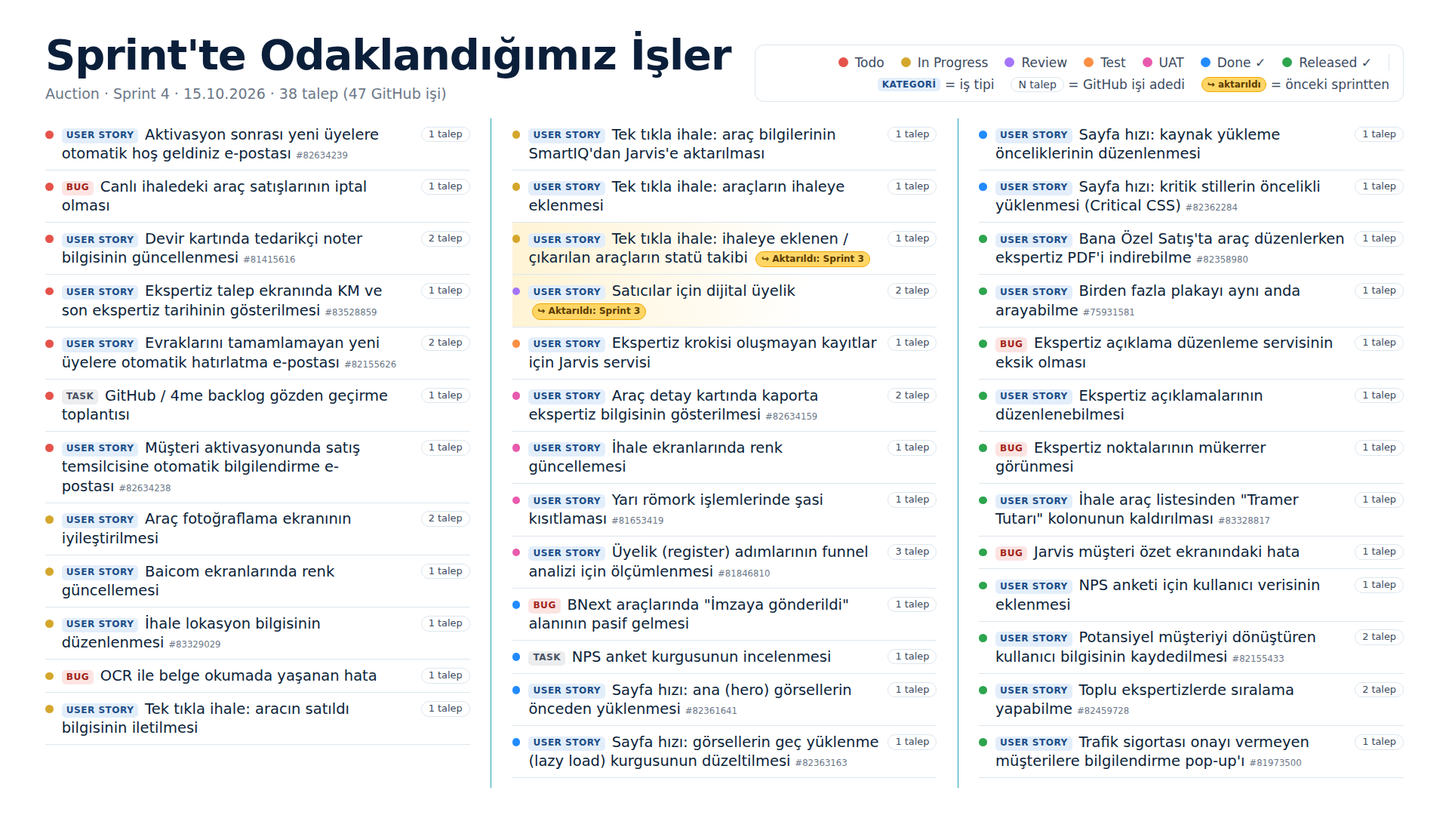
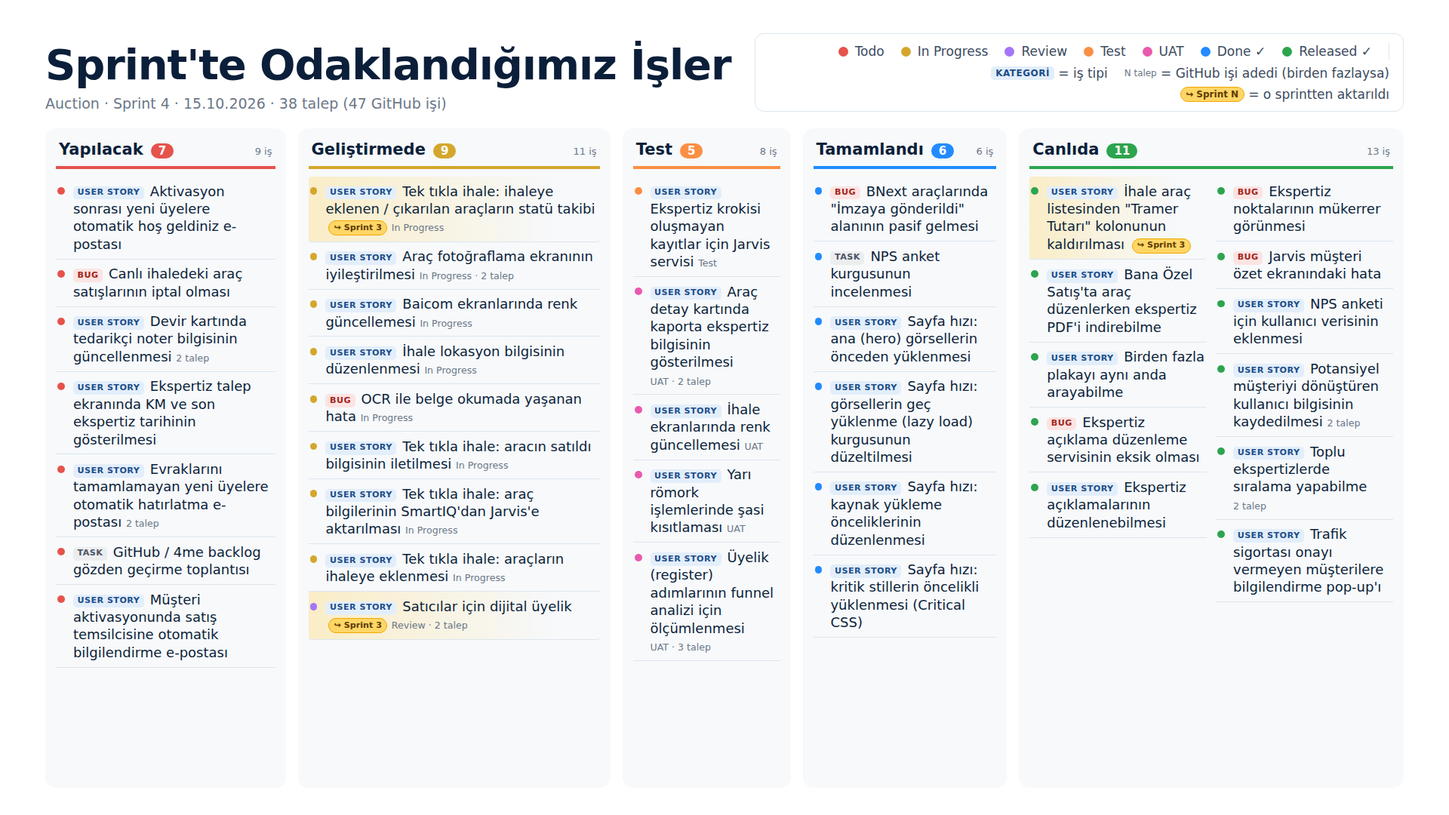
Slide 1 as a kanban board with bullet items; v4 export (Original Sprint for #461)
- five lanes (Yapılacak, Geliştirmede, Test, Tamamlandı, Canlıda), widths proportional to item count,
  crowded lanes split into sub-columns, font auto-fit
- items stay as bullets: status dot, category tag, theme name, '↪ Sprint N' carry tag, 'N talep' when >1

Claude-Session: https://claude.ai/code/session_014SYUQQBmb2NC56QaszpaqB

diff --git a/sunum/auction-2026-10-15/auction-slaytlar.html b/sunum/auction-2026-10-15/auction-slaytlar.html
@@ -129,6 +129,23 @@ h1 span { color:var(--accent); font-weight:600; }
 .rtitle small { font-weight:400; color:var(--muted); font-size:16px; }
 .rsec.done .rtitle { border-color:var(--plan); color:var(--ink-2); }
 .rsec.done .rtitle b { background:var(--plan); color:var(--ink); }
+/* kanban */
+.board { flex:1; min-height:0; display:grid; gap:16px; --kf:17px; }
+.lane { display:flex; flex-direction:column; min-height:0; background:#F7F9FB; border-radius:14px; padding:12px 14px; }
+.lhead { display:flex; align-items:baseline; gap:10px; padding:4px 4px 10px; margin-bottom:10px;
+  border-bottom:4px solid var(--c); font-size:21px; font-weight:700; }
+.lhead b { font-size:15px; background:var(--c); color:#fff; border-radius:999px; padding:1px 10px; }
+.lhead small { margin-left:auto; font-size:13px; font-weight:500; color:var(--muted); white-space:nowrap; }
+.cards { flex:1; min-height:0; overflow:hidden; column-width:230px; column-gap:12px; column-fill:balance; }
+.cards > * { break-inside:avoid; }
+.kitem { display:flex; align-items:flex-start; gap:2px; padding:calc(var(--kf) * .42) 2px;
+  border-bottom:1px solid var(--rule); font-size:var(--kf); line-height:1.3; font-weight:500; }
+.kitem .dot { width:calc(var(--kf) * .55); height:calc(var(--kf) * .55); margin-top:calc(var(--kf) * .38); }
+.kitem .kt { flex:1; }
+.kitem .cat, .kitem .carry { font-size:.62em; vertical-align:.12em; }
+.kitem.carried { background:linear-gradient(90deg, rgba(255,214,102,.35), transparent 85%); border-radius:4px; }
+.kmeta { font-size:.7em; color:var(--muted); white-space:nowrap; }
+.lempty { color:var(--muted); text-align:center; padding:20px 0; }
 .rnote { font-size:16px; color:var(--muted); margin-top:14px; }
 @media print {
   @page { size:1920px 1080px; margin:0; }
@@ -143,57 +160,18 @@ h1 span { color:var(--accent); font-weight:600; }
   <header>
     <div><h1>Sprint'te Odaklandığımız İşler</h1>
       <div class="sub">Auction · Sprint 4 · 15.10.2026 · 38 talep (47 GitHub işi)</div></div>
-    <ul class="legend"><li><span class="dot" style="--c:#E5534B"></span>Todo</li><li><span class="dot" style="--c:#D4A72C"></span>In Progress</li><li><span class="dot" style="--c:#A475F9"></span>Review</li><li><span class="dot" style="--c:#FB8F44"></span>Test</li><li><span class="dot" style="--c:#E85AAD"></span>UAT</li><li><span class="dot" style="--c:#218BFF"></span>Done ✓</li><li><span class="dot" style="--c:#2DA44E"></span>Released ✓</li><li class="sep"></li><li><span class="cat story">Kategori</span>&nbsp;= iş tipi</li><li><span class="cnt">N talep</span>&nbsp;= GitHub işi adedi</li><li><span class="carry">↪ aktarıldı</span>&nbsp;= önceki sprintten</li></ul>
+    <ul class="legend"><li><span class="dot" style="--c:#E5534B"></span>Todo</li><li><span class="dot" style="--c:#D4A72C"></span>In Progress</li><li><span class="dot" style="--c:#A475F9"></span>Review</li><li><span class="dot" style="--c:#FB8F44"></span>Test</li><li><span class="dot" style="--c:#E85AAD"></span>UAT</li><li><span class="dot" style="--c:#218BFF"></span>Done ✓</li><li><span class="dot" style="--c:#2DA44E"></span>Released ✓</li><li class="sep"></li><li><span class="cat story">Kategori</span>&nbsp;= iş tipi</li><li><span class="kmeta">N talep</span>&nbsp;= GitHub işi adedi (birden fazlaysa)</li><li><span class="carry">↪ Sprint N</span>&nbsp;= o sprintten aktarıldı</li></ul>
   </header>
-  <ul class="list" style="--cols:3">
-<li class="" title="Todo · Yeni Üyelik | Müşteri Aktivasyonu Sonrası Otomatik Hoş Geldiniz Maili Gönderimi"><span class="dot" style="--c:#E5534B"></span><span class="t"><span class="cat story">User Story</span> Aktivasyon sonrası yeni üyelere otomatik hoş geldiniz e-postası<span class="xno">#82634239</span></span><span class="cnt">1 talep</span></li>
-<li class="" title="Todo · [BUG] Canlı İhaledeki Araçların Satışlarının İptal Olması Hk."><span class="dot" style="--c:#E5534B"></span><span class="t"><span class="cat bug">Bug</span> Canlı ihaledeki araç satışlarının iptal olması</span><span class="cnt">1 talep</span></li>
-<li class="" title="Todo · Devir Kartı Ekranında Tedarikçi Noter Alanının Güncellenmesi FE
-Test · Devir Kartı Ekranında Tedarikçi Noter Alanının Güncellenmesi BE"><span class="dot" style="--c:#E5534B"></span><span class="t"><span class="cat story">User Story</span> Devir kartında tedarikçi noter bilgisinin güncellenmesi<span class="xno">#81415616</span></span><span class="cnt">2 talep</span></li>
-<li class="" title="Todo · Ekspertiz Talep Ekranına KM ve Son Ekspertiz Tarihi Bilgilerinin Eklenmesi"><span class="dot" style="--c:#E5534B"></span><span class="t"><span class="cat story">User Story</span> Ekspertiz talep ekranında KM ve son ekspertiz tarihinin gösterilmesi<span class="xno">#83528859</span></span><span class="cnt">1 talep</span></li>
-<li class="" title="Todo · Yeni Üyelik | Evraklarını Tamamlamayan Müşterilere Otomatik Hatırlatma Maili FE
-Test · Yeni Üyelik | Evraklarını Tamamlamayan Müşterilere Otomatik Hatırlatma Maili BE"><span class="dot" style="--c:#E5534B"></span><span class="t"><span class="cat story">User Story</span> Evraklarını tamamlamayan yeni üyelere otomatik hatırlatma e-postası<span class="xno">#82155626</span></span><span class="cnt">2 talep</span></li>
-<li class="" title="Todo · Github/4me Backlog için toplantı yapılacaktır"><span class="dot" style="--c:#E5534B"></span><span class="t"><span class="cat task">Task</span> GitHub / 4me backlog gözden geçirme toplantısı</span><span class="cnt">1 talep</span></li>
-<li class="" title="Todo · Yeni Üyelik | Müşteri Aktivasyonu Sonrası Satış Temsilcisine Otomatik Mail Gönderimi"><span class="dot" style="--c:#E5534B"></span><span class="t"><span class="cat story">User Story</span> Müşteri aktivasyonunda satış temsilcisine otomatik bilgilendirme e-postası<span class="xno">#82634238</span></span><span class="cnt">1 talep</span></li>
-<li class="" title="In Progress · Araç Fotoğraflama Ekran Düzenlemeleri FE
-Done · Araç Fotoğraflama Ekran Düzenlemeleri BE"><span class="dot" style="--c:#D4A72C"></span><span class="t"><span class="cat story">User Story</span> Araç fotoğraflama ekranının iyileştirilmesi</span><span class="cnt">2 talep</span></li>
-<li class="" title="In Progress · Baicom renk değişimi"><span class="dot" style="--c:#D4A72C"></span><span class="t"><span class="cat story">User Story</span> Baicom ekranlarında renk güncellemesi</span><span class="cnt">1 talep</span></li>
-<li class="" title="In Progress · ihale lokasyon bilgisi hk."><span class="dot" style="--c:#D4A72C"></span><span class="t"><span class="cat story">User Story</span> İhale lokasyon bilgisinin düzenlenmesi<span class="xno">#83329029</span></span><span class="cnt">1 talep</span></li>
-<li class="" title="In Progress · [BUG] OCR ile Belge Okuma Hatası"><span class="dot" style="--c:#D4A72C"></span><span class="t"><span class="cat bug">Bug</span> OCR ile belge okumada yaşanan hata</span><span class="cnt">1 talep</span></li>
-<li class="" title="In Progress · One Click Auction - Araç Satıldı Bilgisi"><span class="dot" style="--c:#D4A72C"></span><span class="t"><span class="cat story">User Story</span> Tek tıkla ihale: aracın satıldı bilgisinin iletilmesi</span><span class="cnt">1 talep</span></li>
-<li class="" title="In Progress · One Click Auction - Araç Bilgilerinin SmartIq&#x27;dan Jarvise İletilmesi"><span class="dot" style="--c:#D4A72C"></span><span class="t"><span class="cat story">User Story</span> Tek tıkla ihale: araç bilgilerinin SmartIQ&#x27;dan Jarvis&#x27;e aktarılması</span><span class="cnt">1 talep</span></li>
-<li class="" title="In Progress · One Click Auction - Araçların İhaleye Eklenmesi"><span class="dot" style="--c:#D4A72C"></span><span class="t"><span class="cat story">User Story</span> Tek tıkla ihale: araçların ihaleye eklenmesi</span><span class="cnt">1 talep</span></li>
-<li class="carried" title="In Progress · One Click Auction - İhaleye Eklenen/Çıkartılan Araç Statüleri Hk."><span class="dot" style="--c:#D4A72C"></span><span class="t"><span class="cat story">User Story</span> Tek tıkla ihale: ihaleye eklenen / çıkarılan araçların statü takibi <span class="carry" title="Original Sprint: Sprint 3">↪ Aktarıldı: Sprint 3</span></span><span class="cnt">1 talep</span></li>
-<li class="carried" title="Review · Satıcı İçin Dijital Üyelik Geliştirmesi FE
-Test · Satıcı İçin Dijital Üyelik Geliştirmesi BE"><span class="dot" style="--c:#A475F9"></span><span class="t"><span class="cat story">User Story</span> Satıcılar için dijital üyelik <span class="carry" title="Original Sprint: Sprint 3">↪ Aktarıldı: Sprint 3</span></span><span class="cnt">2 talep</span></li>
-<li class="" title="Test · Ekspertiz Krokisi Oluşmayan Kayıtlar İçin Jarviste Servisinin Oluşturulması"><span class="dot" style="--c:#FB8F44"></span><span class="t"><span class="cat story">User Story</span> Ekspertiz krokisi oluşmayan kayıtlar için Jarvis servisi</span><span class="cnt">1 talep</span></li>
-<li class="" title="UAT · Araç Detay Kartında Kaporta Ekspertiz Gösterimi BE
-UAT · Araç Detay Kartında Kaporta Ekspertiz Gösterimi"><span class="dot" style="--c:#E85AAD"></span><span class="t"><span class="cat story">User Story</span> Araç detay kartında kaporta ekspertiz bilgisinin gösterilmesi<span class="xno">#82634159</span></span><span class="cnt">2 talep</span></li>
-<li class="" title="UAT · İhale ekranları renk değişimi"><span class="dot" style="--c:#E85AAD"></span><span class="t"><span class="cat story">User Story</span> İhale ekranlarında renk güncellemesi</span><span class="cnt">1 talep</span></li>
-<li class="" title="UAT · Yarı Römork İşlemlerinde Şasi Kısıtlaması - 8h"><span class="dot" style="--c:#E85AAD"></span><span class="t"><span class="cat story">User Story</span> Yarı römork işlemlerinde şasi kısıtlaması<span class="xno">#81653419</span></span><span class="cnt">1 talep</span></li>
-<li class="" title="UAT · DATA - Register Süreçleri Funnel Event Entegrasyonu FE - 4h
+  <div class="board" style="grid-template-columns:repeat(38, minmax(0,1fr))"><div class="lane" style="grid-column:span 7"><div class="lhead" style="--c:#E5534B"><span>Yapılacak</span><b>7</b><small>9 iş</small></div><div class="cards"><div class="kitem" title="Todo · Yeni Üyelik | Müşteri Aktivasyonu Sonrası Otomatik Hoş Geldiniz Maili Gönderimi"><span class="dot" style="--c:#E5534B"></span><span class="kt"><span class="cat story">User Story</span> Aktivasyon sonrası yeni üyelere otomatik hoş geldiniz e-postası</span></div><div class="kitem" title="Todo · [BUG] Canlı İhaledeki Araçların Satışlarının İptal Olması Hk."><span class="dot" style="--c:#E5534B"></span><span class="kt"><span class="cat bug">Bug</span> Canlı ihaledeki araç satışlarının iptal olması</span></div><div class="kitem" title="Todo · Devir Kartı Ekranında Tedarikçi Noter Alanının Güncellenmesi FE
+Test · Devir Kartı Ekranında Tedarikçi Noter Alanının Güncellenmesi BE"><span class="dot" style="--c:#E5534B"></span><span class="kt"><span class="cat story">User Story</span> Devir kartında tedarikçi noter bilgisinin güncellenmesi <span class="kmeta">2 talep</span></span></div><div class="kitem" title="Todo · Ekspertiz Talep Ekranına KM ve Son Ekspertiz Tarihi Bilgilerinin Eklenmesi"><span class="dot" style="--c:#E5534B"></span><span class="kt"><span class="cat story">User Story</span> Ekspertiz talep ekranında KM ve son ekspertiz tarihinin gösterilmesi</span></div><div class="kitem" title="Todo · Yeni Üyelik | Evraklarını Tamamlamayan Müşterilere Otomatik Hatırlatma Maili FE
+Test · Yeni Üyelik | Evraklarını Tamamlamayan Müşterilere Otomatik Hatırlatma Maili BE"><span class="dot" style="--c:#E5534B"></span><span class="kt"><span class="cat story">User Story</span> Evraklarını tamamlamayan yeni üyelere otomatik hatırlatma e-postası <span class="kmeta">2 talep</span></span></div><div class="kitem" title="Todo · Github/4me Backlog için toplantı yapılacaktır"><span class="dot" style="--c:#E5534B"></span><span class="kt"><span class="cat task">Task</span> GitHub / 4me backlog gözden geçirme toplantısı</span></div><div class="kitem" title="Todo · Yeni Üyelik | Müşteri Aktivasyonu Sonrası Satış Temsilcisine Otomatik Mail Gönderimi"><span class="dot" style="--c:#E5534B"></span><span class="kt"><span class="cat story">User Story</span> Müşteri aktivasyonunda satış temsilcisine otomatik bilgilendirme e-postası</span></div></div></div><div class="lane" style="grid-column:span 9"><div class="lhead" style="--c:#D4A72C"><span>Geliştirmede</span><b>9</b><small>11 iş</small></div><div class="cards"><div class="kitem carried" title="In Progress · One Click Auction - İhaleye Eklenen/Çıkartılan Araç Statüleri Hk."><span class="dot" style="--c:#D4A72C"></span><span class="kt"><span class="cat story">User Story</span> Tek tıkla ihale: ihaleye eklenen / çıkarılan araçların statü takibi <span class="carry" title="Önceki sprintten aktarıldı">↪ Sprint 3</span> <span class="kmeta">In Progress</span></span></div><div class="kitem" title="In Progress · Araç Fotoğraflama Ekran Düzenlemeleri FE
+Done · Araç Fotoğraflama Ekran Düzenlemeleri BE"><span class="dot" style="--c:#D4A72C"></span><span class="kt"><span class="cat story">User Story</span> Araç fotoğraflama ekranının iyileştirilmesi <span class="kmeta">In Progress · 2 talep</span></span></div><div class="kitem" title="In Progress · Baicom renk değişimi"><span class="dot" style="--c:#D4A72C"></span><span class="kt"><span class="cat story">User Story</span> Baicom ekranlarında renk güncellemesi <span class="kmeta">In Progress</span></span></div><div class="kitem" title="In Progress · ihale lokasyon bilgisi hk."><span class="dot" style="--c:#D4A72C"></span><span class="kt"><span class="cat story">User Story</span> İhale lokasyon bilgisinin düzenlenmesi <span class="kmeta">In Progress</span></span></div><div class="kitem" title="In Progress · [BUG] OCR ile Belge Okuma Hatası"><span class="dot" style="--c:#D4A72C"></span><span class="kt"><span class="cat bug">Bug</span> OCR ile belge okumada yaşanan hata <span class="kmeta">In Progress</span></span></div><div class="kitem" title="In Progress · One Click Auction - Araç Satıldı Bilgisi"><span class="dot" style="--c:#D4A72C"></span><span class="kt"><span class="cat story">User Story</span> Tek tıkla ihale: aracın satıldı bilgisinin iletilmesi <span class="kmeta">In Progress</span></span></div><div class="kitem" title="In Progress · One Click Auction - Araç Bilgilerinin SmartIq&#x27;dan Jarvise İletilmesi"><span class="dot" style="--c:#D4A72C"></span><span class="kt"><span class="cat story">User Story</span> Tek tıkla ihale: araç bilgilerinin SmartIQ&#x27;dan Jarvis&#x27;e aktarılması <span class="kmeta">In Progress</span></span></div><div class="kitem" title="In Progress · One Click Auction - Araçların İhaleye Eklenmesi"><span class="dot" style="--c:#D4A72C"></span><span class="kt"><span class="cat story">User Story</span> Tek tıkla ihale: araçların ihaleye eklenmesi <span class="kmeta">In Progress</span></span></div><div class="kitem carried" title="Review · Satıcı İçin Dijital Üyelik Geliştirmesi FE
+Test · Satıcı İçin Dijital Üyelik Geliştirmesi BE"><span class="dot" style="--c:#A475F9"></span><span class="kt"><span class="cat story">User Story</span> Satıcılar için dijital üyelik <span class="carry" title="Önceki sprintten aktarıldı">↪ Sprint 3</span> <span class="kmeta">Review · 2 talep</span></span></div></div></div><div class="lane" style="grid-column:span 5"><div class="lhead" style="--c:#FB8F44"><span>Test</span><b>5</b><small>8 iş</small></div><div class="cards"><div class="kitem" title="Test · Ekspertiz Krokisi Oluşmayan Kayıtlar İçin Jarviste Servisinin Oluşturulması"><span class="dot" style="--c:#FB8F44"></span><span class="kt"><span class="cat story">User Story</span> Ekspertiz krokisi oluşmayan kayıtlar için Jarvis servisi <span class="kmeta">Test</span></span></div><div class="kitem" title="UAT · Araç Detay Kartında Kaporta Ekspertiz Gösterimi BE
+UAT · Araç Detay Kartında Kaporta Ekspertiz Gösterimi"><span class="dot" style="--c:#E85AAD"></span><span class="kt"><span class="cat story">User Story</span> Araç detay kartında kaporta ekspertiz bilgisinin gösterilmesi <span class="kmeta">UAT · 2 talep</span></span></div><div class="kitem" title="UAT · İhale ekranları renk değişimi"><span class="dot" style="--c:#E85AAD"></span><span class="kt"><span class="cat story">User Story</span> İhale ekranlarında renk güncellemesi <span class="kmeta">UAT</span></span></div><div class="kitem" title="UAT · Yarı Römork İşlemlerinde Şasi Kısıtlaması - 8h"><span class="dot" style="--c:#E85AAD"></span><span class="kt"><span class="cat story">User Story</span> Yarı römork işlemlerinde şasi kısıtlaması <span class="kmeta">UAT</span></span></div><div class="kitem" title="UAT · DATA - Register Süreçleri Funnel Event Entegrasyonu FE - 4h
 UAT · DATA - Register Süreçleri Funnel Event Entegrasyonu Jarvis İnceleme Taskı
-UAT · DATA - Register Süreçleri Funnel Event Entegrasyonu Jarvis BE"><span class="dot" style="--c:#E85AAD"></span><span class="t"><span class="cat story">User Story</span> Üyelik (register) adımlarının funnel analizi için ölçümlenmesi<span class="xno">#81846810</span></span><span class="cnt">3 talep</span></li>
-<li class="" title="Done · [BUG] Bnext Araçlarında İmzaya Gönderildi Alanın Disable Gelmesi Hk."><span class="dot" style="--c:#218BFF"></span><span class="t"><span class="cat bug">Bug</span> BNext araçlarında &quot;İmzaya gönderildi&quot; alanının pasif gelmesi</span><span class="cnt">1 talep</span></li>
-<li class="" title="Done · NPS Kurgusunun İncelenmesi"><span class="dot" style="--c:#218BFF"></span><span class="t"><span class="cat task">Task</span> NPS anket kurgusunun incelenmesi</span><span class="cnt">1 talep</span></li>
-<li class="" title="Done · Hero Görsellerin Preload Edilmesi"><span class="dot" style="--c:#218BFF"></span><span class="t"><span class="cat story">User Story</span> Sayfa hızı: ana (hero) görsellerin önceden yüklenmesi<span class="xno">#82361641</span></span><span class="cnt">1 talep</span></li>
-<li class="" title="Done · Hatalı Lazy Load Kurgusunun Düzeltilmesi"><span class="dot" style="--c:#218BFF"></span><span class="t"><span class="cat story">User Story</span> Sayfa hızı: görsellerin geç yüklenme (lazy load) kurgusunun düzeltilmesi<span class="xno">#82363163</span></span><span class="cnt">1 talep</span></li>
-<li class="" title="Done · Fetchpriority Düzenlemeleri"><span class="dot" style="--c:#218BFF"></span><span class="t"><span class="cat story">User Story</span> Sayfa hızı: kaynak yükleme önceliklerinin düzenlenmesi</span><span class="cnt">1 talep</span></li>
-<li class="" title="Done · Critical CSS Uygulaması"><span class="dot" style="--c:#218BFF"></span><span class="t"><span class="cat story">User Story</span> Sayfa hızı: kritik stillerin öncelikli yüklenmesi (Critical CSS)<span class="xno">#82362284</span></span><span class="cnt">1 talep</span></li>
-<li class="" title="Released · Bana Özel Satıştaki Araç Düzenleme Alanında Ekspertiz PDF İndirme"><span class="dot" style="--c:#2DA44E"></span><span class="t"><span class="cat story">User Story</span> Bana Özel Satış&#x27;ta araç düzenlerken ekspertiz PDF&#x27;i indirebilme<span class="xno">#82358980</span></span><span class="cnt">1 talep</span></li>
-<li class="" title="Released · Birden Fazla Plakayı Aynı Anda Aratma"><span class="dot" style="--c:#2DA44E"></span><span class="t"><span class="cat story">User Story</span> Birden fazla plakayı aynı anda arayabilme<span class="xno">#75931581</span></span><span class="cnt">1 talep</span></li>
-<li class="" title="Released · [BUG] Ekspertiz Açıklama Ekranının Düzenlenebilmesi BE Servisi Eklenmesi"><span class="dot" style="--c:#2DA44E"></span><span class="t"><span class="cat bug">Bug</span> Ekspertiz açıklama düzenleme servisinin eksik olması</span><span class="cnt">1 talep</span></li>
-<li class="" title="Released · Ekspertiz Açıklama Ekranının Düzenlenebilmesi"><span class="dot" style="--c:#2DA44E"></span><span class="t"><span class="cat story">User Story</span> Ekspertiz açıklamalarının düzenlenebilmesi</span><span class="cnt">1 talep</span></li>
-<li class="" title="Released · [BUG] Ekspertiz Pointlerinin Çoklaması Hk."><span class="dot" style="--c:#2DA44E"></span><span class="t"><span class="cat bug">Bug</span> Ekspertiz noktalarının mükerrer görünmesi</span><span class="cnt">1 talep</span></li>
-<li class="" title="Released · İhale Araç Liste Görünümünden &quot;Tramer Tutarı&quot; Kolonunun Kaldırılması"><span class="dot" style="--c:#2DA44E"></span><span class="t"><span class="cat story">User Story</span> İhale araç listesinden &quot;Tramer Tutarı&quot; kolonunun kaldırılması<span class="xno">#83328817</span></span><span class="cnt">1 talep</span></li>
-<li class="" title="Released · [BUG] Jarvis Müşteri Özet Ekranı Hatası"><span class="dot" style="--c:#2DA44E"></span><span class="t"><span class="cat bug">Bug</span> Jarvis müşteri özet ekranındaki hata</span><span class="cnt">1 talep</span></li>
-<li class="" title="Released · User_Data Bilgisinin Eklenmesi (NPS Kurgusu)"><span class="dot" style="--c:#2DA44E"></span><span class="t"><span class="cat story">User Story</span> NPS anketi için kullanıcı verisinin eklenmesi</span><span class="cnt">1 talep</span></li>
-<li class="" title="Released · Potansiyel Müşteri Sahibi, Dönüştüren Kullanıcı Bilgisinin Tutulması BE
-Released · Potansiyel Müşteri Sahibi, Dönüştüren Kullanıcı Bilgisinin Tutulması FE"><span class="dot" style="--c:#2DA44E"></span><span class="t"><span class="cat story">User Story</span> Potansiyel müşteriyi dönüştüren kullanıcı bilgisinin kaydedilmesi<span class="xno">#82155433</span></span><span class="cnt">2 talep</span></li>
-<li class="" title="Released · Toplu Ekspertiz Sıralama Fonksiyonu Eklenmesi FE
-Released · Toplu Ekspertiz Sıralama Fonksiyonu Eklenmesi BE"><span class="dot" style="--c:#2DA44E"></span><span class="t"><span class="cat story">User Story</span> Toplu ekspertizlerde sıralama yapabilme<span class="xno">#82459728</span></span><span class="cnt">2 talep</span></li>
-<li class="" title="Released · Trafik Sigortası için Onay Vermeyen Müşterilere Pop-up Açılması"><span class="dot" style="--c:#2DA44E"></span><span class="t"><span class="cat story">User Story</span> Trafik sigortası onayı vermeyen müşterilere bilgilendirme pop-up&#x27;ı<span class="xno">#81973500</span></span><span class="cnt">1 talep</span></li>
-  </ul>
+UAT · DATA - Register Süreçleri Funnel Event Entegrasyonu Jarvis BE"><span class="dot" style="--c:#E85AAD"></span><span class="kt"><span class="cat story">User Story</span> Üyelik (register) adımlarının funnel analizi için ölçümlenmesi <span class="kmeta">UAT · 3 talep</span></span></div></div></div><div class="lane" style="grid-column:span 6"><div class="lhead" style="--c:#218BFF"><span>Tamamlandı</span><b>6</b><small>6 iş</small></div><div class="cards"><div class="kitem" title="Done · [BUG] Bnext Araçlarında İmzaya Gönderildi Alanın Disable Gelmesi Hk."><span class="dot" style="--c:#218BFF"></span><span class="kt"><span class="cat bug">Bug</span> BNext araçlarında &quot;İmzaya gönderildi&quot; alanının pasif gelmesi</span></div><div class="kitem" title="Done · NPS Kurgusunun İncelenmesi"><span class="dot" style="--c:#218BFF"></span><span class="kt"><span class="cat task">Task</span> NPS anket kurgusunun incelenmesi</span></div><div class="kitem" title="Done · Hero Görsellerin Preload Edilmesi"><span class="dot" style="--c:#218BFF"></span><span class="kt"><span class="cat story">User Story</span> Sayfa hızı: ana (hero) görsellerin önceden yüklenmesi</span></div><div class="kitem" title="Done · Hatalı Lazy Load Kurgusunun Düzeltilmesi"><span class="dot" style="--c:#218BFF"></span><span class="kt"><span class="cat story">User Story</span> Sayfa hızı: görsellerin geç yüklenme (lazy load) kurgusunun düzeltilmesi</span></div><div class="kitem" title="Done · Fetchpriority Düzenlemeleri"><span class="dot" style="--c:#218BFF"></span><span class="kt"><span class="cat story">User Story</span> Sayfa hızı: kaynak yükleme önceliklerinin düzenlenmesi</span></div><div class="kitem" title="Done · Critical CSS Uygulaması"><span class="dot" style="--c:#218BFF"></span><span class="kt"><span class="cat story">User Story</span> Sayfa hızı: kritik stillerin öncelikli yüklenmesi (Critical CSS)</span></div></div></div><div class="lane" style="grid-column:span 11"><div class="lhead" style="--c:#2DA44E"><span>Canlıda</span><b>11</b><small>13 iş</small></div><div class="cards"><div class="kitem carried" title="Released · İhale Araç Liste Görünümünden &quot;Tramer Tutarı&quot; Kolonunun Kaldırılması"><span class="dot" style="--c:#2DA44E"></span><span class="kt"><span class="cat story">User Story</span> İhale araç listesinden &quot;Tramer Tutarı&quot; kolonunun kaldırılması <span class="carry" title="Önceki sprintten aktarıldı">↪ Sprint 3</span></span></div><div class="kitem" title="Released · Bana Özel Satıştaki Araç Düzenleme Alanında Ekspertiz PDF İndirme"><span class="dot" style="--c:#2DA44E"></span><span class="kt"><span class="cat story">User Story</span> Bana Özel Satış&#x27;ta araç düzenlerken ekspertiz PDF&#x27;i indirebilme</span></div><div class="kitem" title="Released · Birden Fazla Plakayı Aynı Anda Aratma"><span class="dot" style="--c:#2DA44E"></span><span class="kt"><span class="cat story">User Story</span> Birden fazla plakayı aynı anda arayabilme</span></div><div class="kitem" title="Released · [BUG] Ekspertiz Açıklama Ekranının Düzenlenebilmesi BE Servisi Eklenmesi"><span class="dot" style="--c:#2DA44E"></span><span class="kt"><span class="cat bug">Bug</span> Ekspertiz açıklama düzenleme servisinin eksik olması</span></div><div class="kitem" title="Released · Ekspertiz Açıklama Ekranının Düzenlenebilmesi"><span class="dot" style="--c:#2DA44E"></span><span class="kt"><span class="cat story">User Story</span> Ekspertiz açıklamalarının düzenlenebilmesi</span></div><div class="kitem" title="Released · [BUG] Ekspertiz Pointlerinin Çoklaması Hk."><span class="dot" style="--c:#2DA44E"></span><span class="kt"><span class="cat bug">Bug</span> Ekspertiz noktalarının mükerrer görünmesi</span></div><div class="kitem" title="Released · [BUG] Jarvis Müşteri Özet Ekranı Hatası"><span class="dot" style="--c:#2DA44E"></span><span class="kt"><span class="cat bug">Bug</span> Jarvis müşteri özet ekranındaki hata</span></div><div class="kitem" title="Released · User_Data Bilgisinin Eklenmesi (NPS Kurgusu)"><span class="dot" style="--c:#2DA44E"></span><span class="kt"><span class="cat story">User Story</span> NPS anketi için kullanıcı verisinin eklenmesi</span></div><div class="kitem" title="Released · Potansiyel Müşteri Sahibi, Dönüştüren Kullanıcı Bilgisinin Tutulması BE
+Released · Potansiyel Müşteri Sahibi, Dönüştüren Kullanıcı Bilgisinin Tutulması FE"><span class="dot" style="--c:#2DA44E"></span><span class="kt"><span class="cat story">User Story</span> Potansiyel müşteriyi dönüştüren kullanıcı bilgisinin kaydedilmesi <span class="kmeta">2 talep</span></span></div><div class="kitem" title="Released · Toplu Ekspertiz Sıralama Fonksiyonu Eklenmesi FE
+Released · Toplu Ekspertiz Sıralama Fonksiyonu Eklenmesi BE"><span class="dot" style="--c:#2DA44E"></span><span class="kt"><span class="cat story">User Story</span> Toplu ekspertizlerde sıralama yapabilme <span class="kmeta">2 talep</span></span></div><div class="kitem" title="Released · Trafik Sigortası için Onay Vermeyen Müşterilere Pop-up Açılması"><span class="dot" style="--c:#2DA44E"></span><span class="kt"><span class="cat story">User Story</span> Trafik sigortası onayı vermeyen müşterilere bilgilendirme pop-up&#x27;ı</span></div></div></div></div>
 </section></div>
 
 <div class="frame"><section class="slide" aria-label="Metriklerimiz">
@@ -274,7 +252,7 @@ Released · Toplu Ekspertiz Sıralama Fonksiyonu Eklenmesi BE"><span class="dot"
       <div class="pfoot">"TB" etiketli işler ÷ toplam iş</div></div>
     <div class="panel"><div class="ptitle">Lead time (Sprint başlangıcı → Closed, gün)</div>
       <div class="lsub">GitHub'taki talep (iş) sayısı üzerinden · Done ve Released işler · başlangıç: Original Sprint, yoksa Sprint · sprint = 14 gün · Closed tarihi olmadığı için hariç: #555</div>
-      <div class="lstats"><div><span>Biten GitHub işi</span><b>19</b></div><div><span>Medyan</span><b>3,5<small>gün</small></b></div><div><span>Ortalama</span><b>5,5<small>gün</small></b></div><div><span>En uzun</span><b>10,5<small>gün</small></b></div></div><div class="hist"><div class="hplot"><div class="hcol" title="&lt;1 gün gün: 0"><div class="hval"></div><div class="hbar" style="height:0.00%;background:var(--ink)"></div></div><div class="hcol" title="1–3 gün: 0"><div class="hval"></div><div class="hbar" style="height:0.00%;background:var(--ink)"></div></div><div class="hcol" title="3–7 gün: 13"><div class="hval">13</div><div class="hbar" style="height:82.00%;background:var(--ink)"></div></div><div class="hcol" title="7–14 gün: 6"><div class="hval">6</div><div class="hbar" style="height:37.85%;background:var(--ink)"></div></div></div><div class="hx"><div>&lt;1 gün</div><div>1–3</div><div>3–7</div><div>7–14</div></div></div></div>
+      <div class="lstats"><div><span>Biten GitHub işi</span><b>19</b></div><div><span>Medyan</span><b>3,5<small>gün</small></b></div><div><span>Ortalama</span><b>6,2<small>gün</small></b></div><div><span>En uzun</span><b>17,3<small>gün</small></b></div></div><div class="hist"><div class="hplot"><div class="hcol" title="&lt;1 gün gün: 0"><div class="hval"></div><div class="hbar" style="height:0.00%;background:var(--ink)"></div></div><div class="hcol" title="1–3 gün: 0"><div class="hval"></div><div class="hbar" style="height:0.00%;background:var(--ink)"></div></div><div class="hcol" title="3–7 gün: 12"><div class="hval">12</div><div class="hbar" style="height:82.00%;background:var(--ink)"></div></div><div class="hcol" title="7–14 gün: 6"><div class="hval">6</div><div class="hbar" style="height:41.00%;background:var(--ink)"></div></div><div class="hcol" title="14–21 gün: 1"><div class="hval">1</div><div class="hbar" style="height:6.83%;background:var(--ink)"></div></div></div><div class="hx"><div>&lt;1 gün</div><div>1–3</div><div>3–7</div><div>7–14</div><div>14–21</div></div></div></div>
   </div>
 </section></div>
 
@@ -316,7 +294,7 @@ Released · Toplu Ekspertiz Sıralama Fonksiyonu Eklenmesi BE"><span class="dot"
 <div class="frame"><section class="slide" aria-label="Canlıya Çıkmaya Hazır Olan İşler">
   <header>
     <div><h1>Canlıya Çıkmaya Hazır Olan İşler</h1><div class="sub">Auction · Sprint 4 · 15.10.2026</div></div>
-    <ul class="legend"><li><span class="cat story">Kategori</span>&nbsp;= iş tipi</li><li><span class="cnt">N talep</span>&nbsp;= GitHub işi adedi</li><li><span class="carry">↪ aktarıldı</span>&nbsp;= önceki sprintten</li></ul>
+    <ul class="legend"><li><span class="cat story">Kategori</span>&nbsp;= iş tipi</li><li><span class="kmeta">N talep</span>&nbsp;= GitHub işi adedi (birden fazlaysa)</li><li><span class="carry">↪ Sprint N</span>&nbsp;= o sprintten aktarıldı</li></ul>
   </header>
   <div class="rgrid">
     <div class="rsec"><div class="rtitle">Canlıya çıkmaya hazır <b>1</b></div>
@@ -328,7 +306,7 @@ Released · Toplu Ekspertiz Sıralama Fonksiyonu Eklenmesi BE"><span class="dot"
 <li class="" title="Released · Bana Özel Satıştaki Araç Düzenleme Alanında Ekspertiz PDF İndirme"><span class="dot" style="--c:#2DA44E"></span><span class="t"><span class="cat story">User Story</span> Bana Özel Satış&#x27;ta araç düzenlerken ekspertiz PDF&#x27;i indirebilme<span class="xno">#82358980</span></span><span class="cnt">1 talep</span></li>
 <li class="" title="Released · Birden Fazla Plakayı Aynı Anda Aratma"><span class="dot" style="--c:#2DA44E"></span><span class="t"><span class="cat story">User Story</span> Birden fazla plakayı aynı anda arayabilme<span class="xno">#75931581</span></span><span class="cnt">1 talep</span></li>
 <li class="" title="Released · [BUG] Ekspertiz Açıklama Ekranının Düzenlenebilmesi BE Servisi Eklenmesi"><span class="dot" style="--c:#2DA44E"></span><span class="t"><span class="cat bug">Bug</span> Ekspertiz açıklama düzenleme servisinin eksik olması</span><span class="cnt">1 talep</span></li>
-<li class="" title="Released · İhale Araç Liste Görünümünden &quot;Tramer Tutarı&quot; Kolonunun Kaldırılması"><span class="dot" style="--c:#2DA44E"></span><span class="t"><span class="cat story">User Story</span> İhale araç listesinden &quot;Tramer Tutarı&quot; kolonunun kaldırılması<span class="xno">#83328817</span></span><span class="cnt">1 talep</span></li>
+<li class="carried" title="Released · İhale Araç Liste Görünümünden &quot;Tramer Tutarı&quot; Kolonunun Kaldırılması"><span class="dot" style="--c:#2DA44E"></span><span class="t"><span class="cat story">User Story</span> İhale araç listesinden &quot;Tramer Tutarı&quot; kolonunun kaldırılması <span class="carry" title="Original Sprint: Sprint 3">↪ Aktarıldı: Sprint 3</span><span class="xno">#83328817</span></span><span class="cnt">1 talep</span></li>
 <li class="" title="Released · User_Data Bilgisinin Eklenmesi (NPS Kurgusu)"><span class="dot" style="--c:#2DA44E"></span><span class="t"><span class="cat story">User Story</span> NPS anketi için kullanıcı verisinin eklenmesi</span><span class="cnt">1 talep</span></li>
 <li class="" title="Released · Potansiyel Müşteri Sahibi, Dönüştüren Kullanıcı Bilgisinin Tutulması BE
 Released · Potansiyel Müşteri Sahibi, Dönüştüren Kullanıcı Bilgisinin Tutulması FE"><span class="dot" style="--c:#2DA44E"></span><span class="t"><span class="cat story">User Story</span> Potansiyel müşteriyi dönüştüren kullanıcı bilgisinin kaydedilmesi<span class="xno">#82155433</span></span><span class="cnt">2 talep</span></li>
@@ -353,7 +331,15 @@ Released · Toplu Ekspertiz Sıralama Fonksiyonu Eklenmesi BE"><span class="dot"
     if (!fits()) list.style.columnFill = 'auto';
     list.dataset.fitted = fs;
   });
-  document.body.dataset.fitted = [...document.querySelectorAll('.list')].map(l => l.dataset.fitted).join('/');
+  // Kanban: en kalabalık kolon sığana kadar kart yazısını küçült
+  document.querySelectorAll('.board').forEach(b => {
+    let kf = 18;
+    const over = () => [...b.querySelectorAll('.cards')].some(c => c.scrollHeight > c.clientHeight + 1 || c.scrollWidth > c.clientWidth + 1);
+    b.style.setProperty('--kf', kf + 'px');
+    while (over() && kf > 10) { kf -= 0.5; b.style.setProperty('--kf', kf + 'px'); }
+    b.dataset.fitted = kf;
+  });
+  document.body.dataset.fitted = [...document.querySelectorAll('.list, .board')].map(l => l.dataset.fitted).join('/');
   const scale = () => document.documentElement.style.setProperty('--s',
     Math.min(1, (innerWidth - 32) / 1920).toFixed(4));
   scale(); addEventListener('resize', scale);

diff --git a/.claude/skills/gelistirmeler-raporu/scripts/build_slides.py b/.claude/skills/gelistirmeler-raporu/scripts/build_slides.py
@@ -284,6 +284,56 @@ def group_li(g: dict, hexes: dict, origin_label: str) -> str:
             f'<span class="cnt">{n} talep</span></li>')
 
 
+# Kanban kolonları: (başlık, statüler). Bilinmeyen statü "Geliştirmede" kolonuna düşer.
+LANES = [("Yapılacak", ["backlog", "todo", "to do", "yapılacak"]),
+         ("Geliştirmede", ["in progress", "geliştirmede", "devam ediyor", "review", "in review",
+                           "code review", "blocked", "engelli"]),
+         ("Test", ["test", "qa", "uat"]),
+         ("Tamamlandı", ["done", "tamamlandı", "closed", "completed", "kapandı"]),
+         ("Canlıda", ["released", "canlıda", "yayında"])]
+
+
+def kanban_card(g: dict, hexes: dict, show_status: bool) -> str:
+    """Kanban kolonundaki tek madde: statü renginde bullet + kategori + tema adı."""
+    n = len(g["items"])
+    color = hexes.get(g["status"], NO_STATUS_COLOR)
+    tip = "\n".join(f'{i["status"]} · {display_title(i["raw_title"])}' for i in g["items"])
+    carry = (f' <span class="carry" title="Önceki sprintten aktarıldı">↪ {esc(", ".join(g["carry"]))}</span>'
+             if g["carry"] else "")
+    meta = []
+    if show_status:
+        meta.append(esc(g["status"]))
+    if n > 1:
+        meta.append(f"{n} talep")
+    meta_html = f' <span class="kmeta">{" · ".join(meta)}</span>' if meta else ""
+    return (f'<div class="kitem{" carried" if g["carry"] else ""}" title="{esc(tip)}">'
+            f'<span class="dot" style="--c:{color}"></span>'
+            f'<span class="kt"><span class="cat {CAT_CLASS[g["kind"]]}">{esc(g["kind"])}</span> '
+            f'{esc(g["name"])}{carry}{meta_html}</span></div>')
+
+
+def kanban(groups: list[dict], hexes: dict, order: dict) -> str:
+    lanes = [(t, set(st), []) for t, st in LANES]
+    for g in groups:
+        st = tr_lower(g["status"])
+        lane = next((l for l in lanes if st in l[1]), lanes[1])
+        lane[2].append(g)
+    # Kolon genişliği kart sayısıyla orantılı; geniş kolon kendi içinde sütunlara bölünür
+    subs = [max(len(l[2]), 3) for l in lanes]
+    out = []
+    for (title, sts, gs), sub in zip(lanes, subs):
+        gs.sort(key=lambda g: (order.get(g["status"], 999), not g["carry"], tr_lower(g["name"])))
+        present = {g["status"] for g in gs}
+        color = next((hexes[s] for s in sorted(present, key=lambda s: order.get(s, 999))), NO_STATUS_COLOR)
+        items = sum(len(g["items"]) for g in gs)
+        cards = "".join(kanban_card(g, hexes, len(present) > 1) for g in gs) or '<div class="lempty">—</div>'
+        out.append(f'<div class="lane" style="grid-column:span {sub}"><div class="lhead" style="--c:{color}"><span>{esc(title)}</span>'
+                   f'<b>{len(gs)}</b><small>{items} iş</small></div>'
+                   f'<div class="cards">{cards}</div></div>')
+    return (f'<div class="board" style="grid-template-columns:repeat({sum(subs)}, minmax(0,1fr))">'
+            + "".join(out) + "</div>")
+
+
 # --------------------------------------------------------------------------- build
 
 def load(a) -> tuple[dict, list[dict], list[str]]:
@@ -371,7 +421,7 @@ def build(a) -> None:
         f'{" ✓" if o["done"] else ""}</li>' for o in used_opts)
 
     # ---- Slayt 1: odaklandığımız işler
-    focus = "\n".join(group_li(g, hexes, a.origin_field) for g in groups)
+    focus = kanban(groups, hexes, order)
     n_carry = sum(1 for g in groups if g["carry"])
 
     # ---- Slayt 2: metrikler
@@ -473,8 +523,8 @@ def build(a) -> None:
     subtitle = " · ".join(x for x in [a.team or proj.get("title"), ", ".join(sprints),
                                       dt.date.today().strftime("%d.%m.%Y")] if x)
     focus_key = (f'<li><span class="cat story">Kategori</span>&nbsp;= iş tipi</li>'
-                 f'<li><span class="cnt">N talep</span>&nbsp;= GitHub işi adedi</li>'
-                 f'<li><span class="carry">↪ aktarıldı</span>&nbsp;= önceki sprintten</li>')
+                 f'<li><span class="kmeta">N talep</span>&nbsp;= GitHub işi adedi (birden fazlaysa)</li>'
+                 f'<li><span class="carry">↪ Sprint N</span>&nbsp;= o sprintten aktarıldı</li>')
     page = TEMPLATE.format(
         subtitle=esc(subtitle), legend=legend, focus_key=focus_key, focus=focus,
         n_groups=len(groups), n_items=len(rows), n_carry=n_carry,
@@ -638,6 +688,23 @@ h1 span {{ color:var(--accent); font-weight:600; }}
 .rtitle small {{ font-weight:400; color:var(--muted); font-size:16px; }}
 .rsec.done .rtitle {{ border-color:var(--plan); color:var(--ink-2); }}
 .rsec.done .rtitle b {{ background:var(--plan); color:var(--ink); }}
+/* kanban */
+.board {{ flex:1; min-height:0; display:grid; gap:16px; --kf:17px; }}
+.lane {{ display:flex; flex-direction:column; min-height:0; background:#F7F9FB; border-radius:14px; padding:12px 14px; }}
+.lhead {{ display:flex; align-items:baseline; gap:10px; padding:4px 4px 10px; margin-bottom:10px;
+  border-bottom:4px solid var(--c); font-size:21px; font-weight:700; }}
+.lhead b {{ font-size:15px; background:var(--c); color:#fff; border-radius:999px; padding:1px 10px; }}
+.lhead small {{ margin-left:auto; font-size:13px; font-weight:500; color:var(--muted); white-space:nowrap; }}
+.cards {{ flex:1; min-height:0; overflow:hidden; column-width:230px; column-gap:12px; column-fill:balance; }}
+.cards > * {{ break-inside:avoid; }}
+.kitem {{ display:flex; align-items:flex-start; gap:2px; padding:calc(var(--kf) * .42) 2px;
+  border-bottom:1px solid var(--rule); font-size:var(--kf); line-height:1.3; font-weight:500; }}
+.kitem .dot {{ width:calc(var(--kf) * .55); height:calc(var(--kf) * .55); margin-top:calc(var(--kf) * .38); }}
+.kitem .kt {{ flex:1; }}
+.kitem .cat, .kitem .carry {{ font-size:.62em; vertical-align:.12em; }}
+.kitem.carried {{ background:linear-gradient(90deg, rgba(255,214,102,.35), transparent 85%); border-radius:4px; }}
+.kmeta {{ font-size:.7em; color:var(--muted); white-space:nowrap; }}
+.lempty {{ color:var(--muted); text-align:center; padding:20px 0; }}
 .rnote {{ font-size:16px; color:var(--muted); margin-top:14px; }}
 @media print {{
   @page {{ size:1920px 1080px; margin:0; }}
@@ -654,9 +721,7 @@ h1 span {{ color:var(--accent); font-weight:600; }}
       <div class="sub">{subtitle} · {n_groups} talep ({n_items} GitHub işi)</div></div>
     <ul class="legend">{legend}<li class="sep"></li>{focus_key}</ul>
   </header>
-  <ul class="list" style="--cols:3">
-{focus}
-  </ul>
+  {focus}
 </section></div>
 
 <div class="frame"><section class="slide" aria-label="Metriklerimiz">
@@ -729,7 +794,15 @@ h1 span {{ color:var(--accent); font-weight:600; }}
     if (!fits()) list.style.columnFill = 'auto';
     list.dataset.fitted = fs;
   }});
-  document.body.dataset.fitted = [...document.querySelectorAll('.list')].map(l => l.dataset.fitted).join('/');
+  // Kanban: en kalabalık kolon sığana kadar kart yazısını küçült
+  document.querySelectorAll('.board').forEach(b => {{
+    let kf = 18;
+    const over = () => [...b.querySelectorAll('.cards')].some(c => c.scrollHeight > c.clientHeight + 1 || c.scrollWidth > c.clientWidth + 1);
+    b.style.setProperty('--kf', kf + 'px');
+    while (over() && kf > 10) {{ kf -= 0.5; b.style.setProperty('--kf', kf + 'px'); }}
+    b.dataset.fitted = kf;
+  }});
+  document.body.dataset.fitted = [...document.querySelectorAll('.list, .board')].map(l => l.dataset.fitted).join('/');
   const scale = () => document.documentElement.style.setProperty('--s',
     Math.min(1, (innerWidth - 32) / 1920).toFixed(4));
   scale(); addEventListener('resize', scale);

diff --git a/.claude/skills/gelistirmeler-raporu/SKILL.md b/.claude/skills/gelistirmeler-raporu/SKILL.md
@@ -96,13 +96,17 @@ Diğer seçenekler: `--title` (varsayılan "Geliştirmeler"), `--unit` (efor bir
 Kullanıcı slayt / sunum / sprint sunumu / 16:9 / PNG isterse `build_slides.py` kullan
 (veri kaynağı seçenekleri `build_report.py` ile aynı). Çıktı her zaman şu 4 slayttır:
 
-1. **Sprint'te Odaklandığımız İşler** — işler **Xurrent Talep No**'ya göre gruplanır
-   (aynı talebin BE/FE/Jarvis işleri tek satır). Talep no'su olmayan işler, sade
-   başlıkları aynıysa (yalnızca BE/FE son eki farklı) birleşir. Her satırda:
-   statü renginde bullet (grubun **en geride** kalan işinin statüsü), kategori etiketi
-   (User Story / Bug / Task / Proje işi), iş birimi diliyle **tema adı**, küçük `#talep no`,
-   sağda **"N talep"** (grubun GitHub işi adedi). `Original Sprint` alanı dolu olan
-   gruplar sarı **"↪ Aktarıldı: Sprint X"** etiketi ve sarı satır vurgusuyla işaretlenir.
+1. **Sprint'te Odaklandığımız İşler** — kanban düzeni: 5 kolon (Yapılacak: Backlog/Todo ·
+   Geliştirmede: In Progress/Review/Blocked · Test: Test/UAT · Tamamlandı: Done ·
+   Canlıda: Released). Kolon genişliği talep sayısıyla orantılı, kalabalık kolon kendi
+   içinde sütunlara bölünür; yazı boyutu en kalabalık kolon sığana kadar küçülür.
+   Kolonlarda kart değil **madde** (bullet) vardır. İşler **Xurrent Talep No**'ya göre
+   gruplanır (aynı talebin BE/FE/Jarvis işleri tek madde); talep no'su olmayan işler, sade
+   başlıkları aynıysa (yalnızca BE/FE son eki farklı) birleşir. Her maddede: statü renginde
+   bullet (grubun **en geride** kalan işinin statüsü), kategori etiketi (User Story / Bug /
+   Task / Proje işi), iş birimi diliyle **tema adı**; kolonda birden fazla statü varsa
+   statü adı, grup birden fazla GitHub işinden oluşuyorsa **"N talep"**. `Original Sprint`
+   işin sprintinden farklıysa sarı **"↪ Sprint N"** etiketi ve sarı vurgu.
 2. **Metriklerimiz** — yalnız adet bazlı, OE yok (iş tipi hariç):
    - Planlanan vs. tamamlanan: **Toplam** (Xurrent + ek), **distinct Xurrent talebi**
      (talep, tüm GitHub işleri bitince tamamlanmış sayılır) ve **ek talepler**
